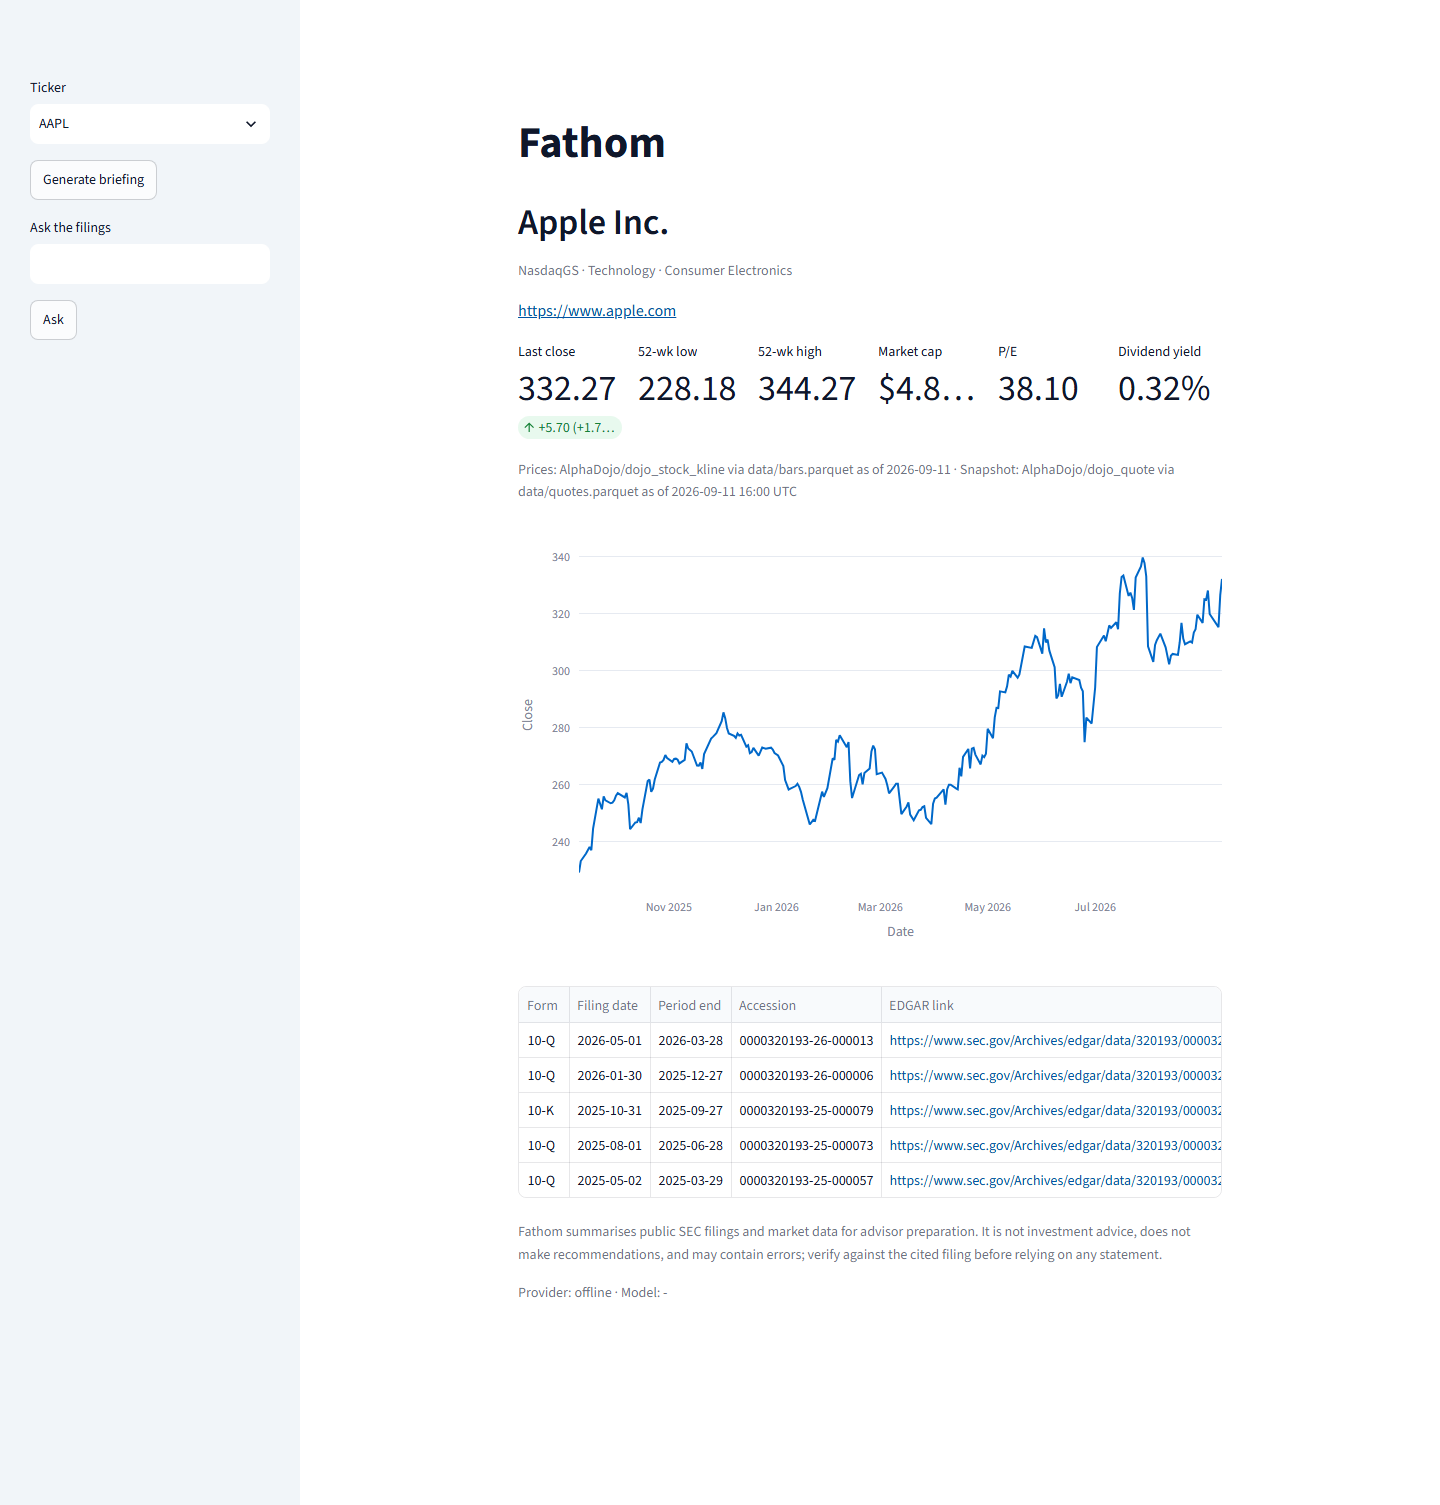
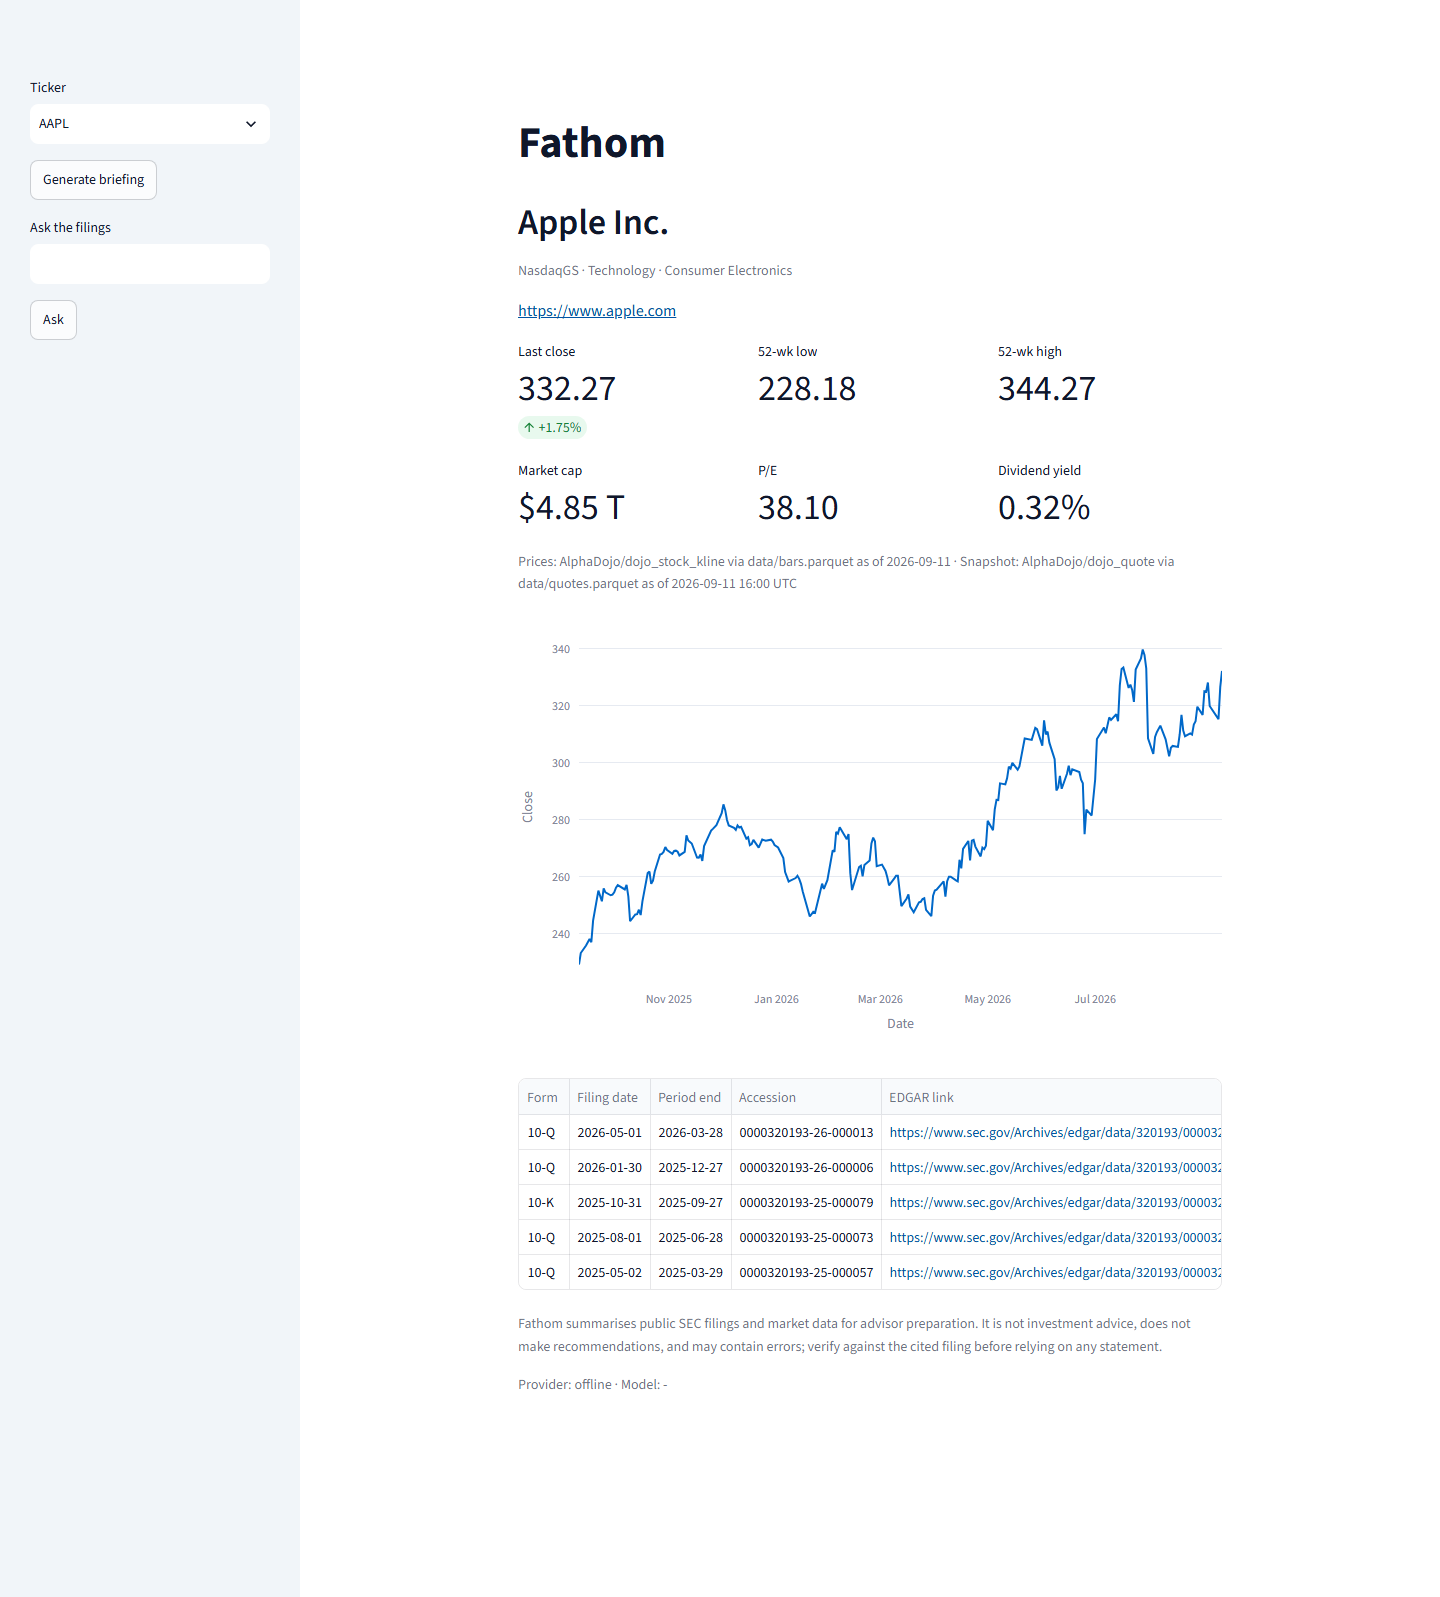
T-017: quote-card layout — two rows of three, percentage delta

diff --git a/app/components/rendering.py b/app/components/rendering.py
@@ -65,30 +65,32 @@ def _metrics_source_caption(quote: QuoteCard) -> str:
 
 
 def render_quote_metrics(quote: QuoteCard) -> None:
-    """The six `st.metric` cards required by FR-012, plus one shared source caption (D-011)."""
-    columns = st.columns(6)
+    """The six `st.metric` cards required by FR-012, in two rows of three (D-011)."""
+    row1 = st.columns(3)
 
-    with columns[0]:
+    with row1[0]:
         st.metric(
             "Last close",
             f"{quote.last_close:.2f}",
-            f"{quote.change_abs:+.2f} ({quote.change_pct:+.2f}%)",
+            f"{quote.change_pct:+.2f}%",
         )
 
-    with columns[1]:
+    with row1[1]:
         st.metric("52-wk low", f"{quote.week52_low:.2f}")
 
-    with columns[2]:
+    with row1[2]:
         st.metric("52-wk high", f"{quote.week52_high:.2f}")
 
-    with columns[3]:
+    row2 = st.columns(3)
+
+    with row2[0]:
         st.metric("Market cap", format_market_cap(quote.market_cap))
 
-    with columns[4]:
+    with row2[1]:
         value = f"{quote.pe:.2f}" if quote.pe is not None else "—"
         st.metric("P/E", value)
 
-    with columns[5]:
+    with row2[2]:
         value = f"{quote.dividend_yield:.2f}%" if quote.dividend_yield is not None else "—"
         st.metric("Dividend yield", value)
 

diff --git a/tests/test_app.py b/tests/test_app.py
@@ -2,6 +2,7 @@
 
 from __future__ import annotations
 
+import re
 from pathlib import Path
 
 import pytest
@@ -41,6 +42,7 @@ def test_fr012_ac1_page_renders_core_elements_without_exception(
     assert not at.exception
     assert len(at.selectbox) > 0
     assert len(at.metric) == 6
+    assert re.match(r"^[+-]\d+\.\d{2}%$", at.metric[0].delta)
     assert len(at.get("plotly_chart")) == 1
     assert len(at.dataframe) >= 1
 

diff --git a/docs/tasks/T-017-quote-card-layout.md b/docs/tasks/T-017-quote-card-layout.md
@@ -45,3 +45,9 @@ The single source caption stays under row 2. FR-012 / NFR-011 unchanged.
 none
 
 ## Handoff (Implementer fills, ≤10 lines)
+`render_quote_metrics` (app/components/rendering.py) now uses two `st.columns(3)` rows: row1
+Last close (delta now `{change_pct:+.2f}%` only)/52-wk low/52-wk high, row2 Market cap/P/E/
+Dividend yield; app/main.py needed no change. tests/test_app.py: added `import re` +
+`re.match(r"^[+-]\d+\.\d{2}%$", at.metric[0].delta)` in test_fr012_ac1_*; six-metric assertions
+unchanged, all 10 tests pass. Screenshots regenerated (01-header-quote.png 44 KB, no truncation);
+all docs/assets/*.png ≤ 425 KB. Full gate: 287 passed, 96.02% coverage, all checks passed.
